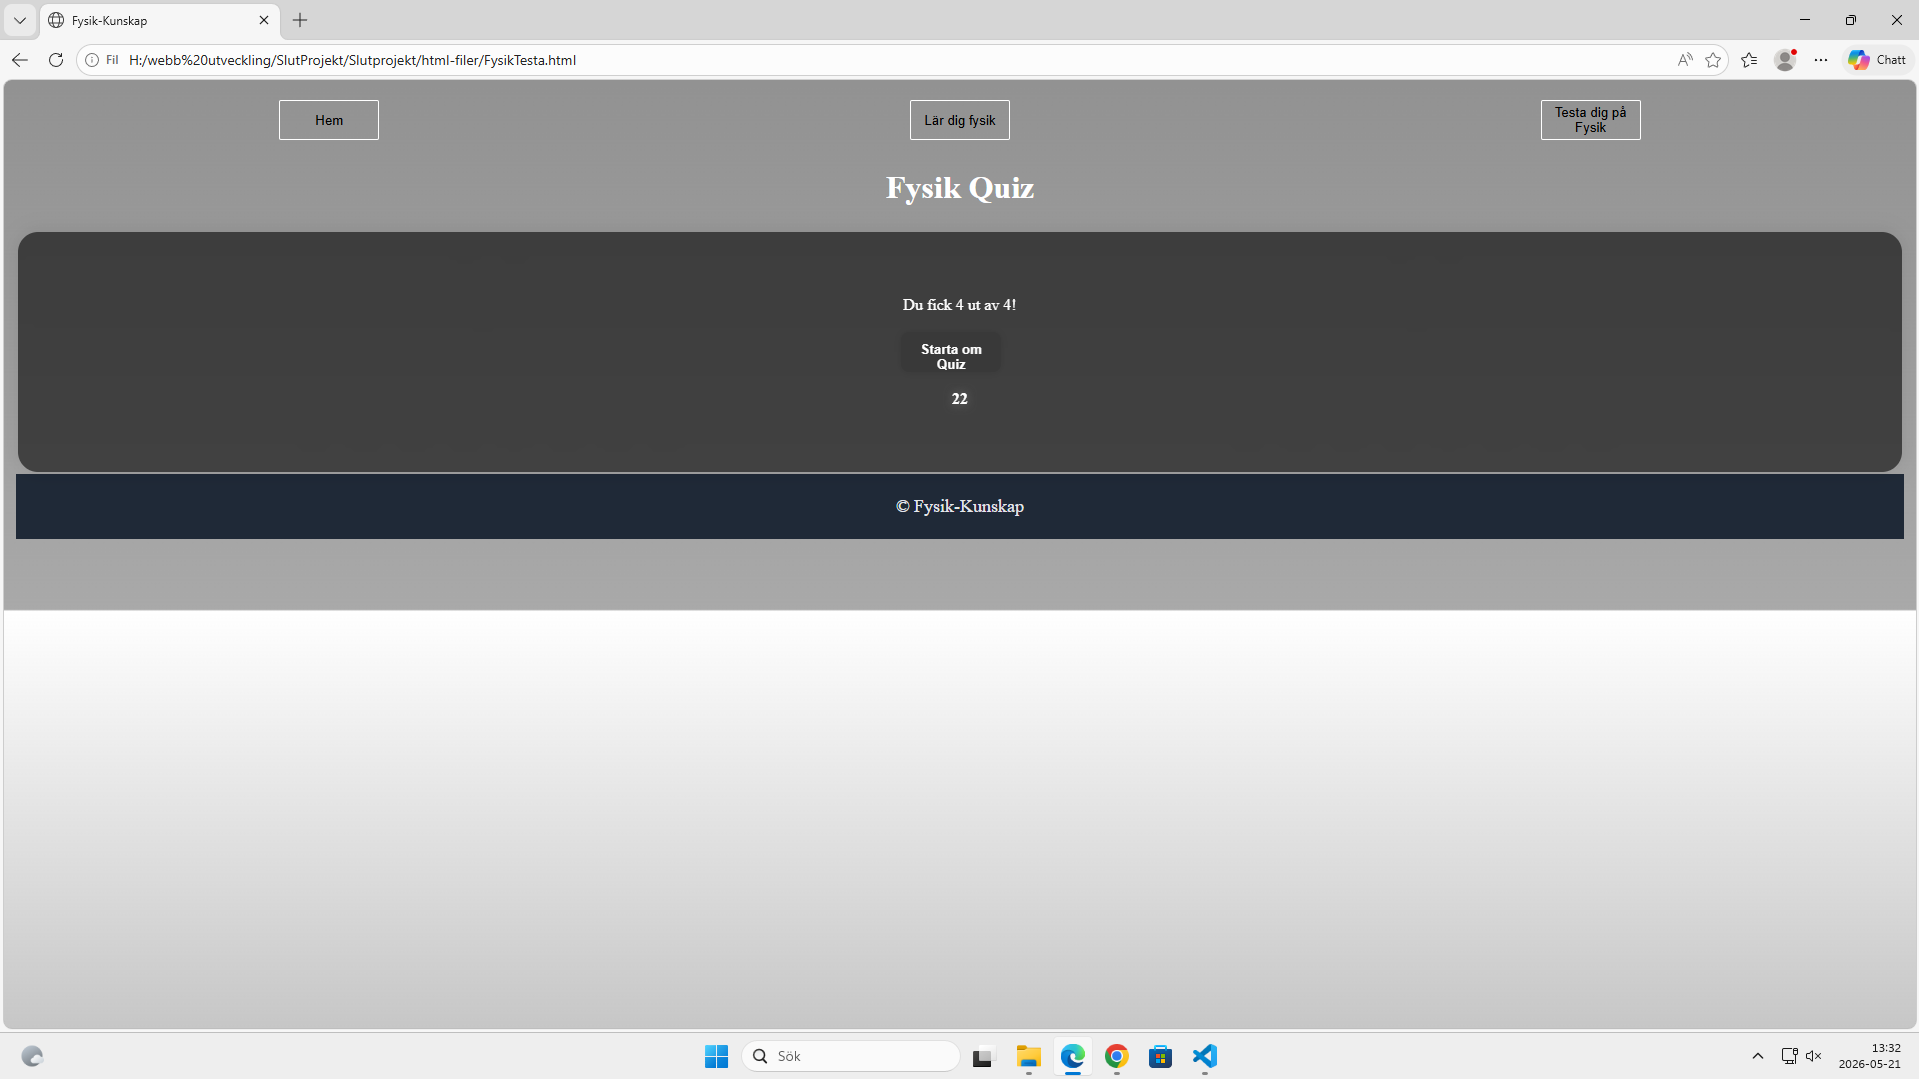
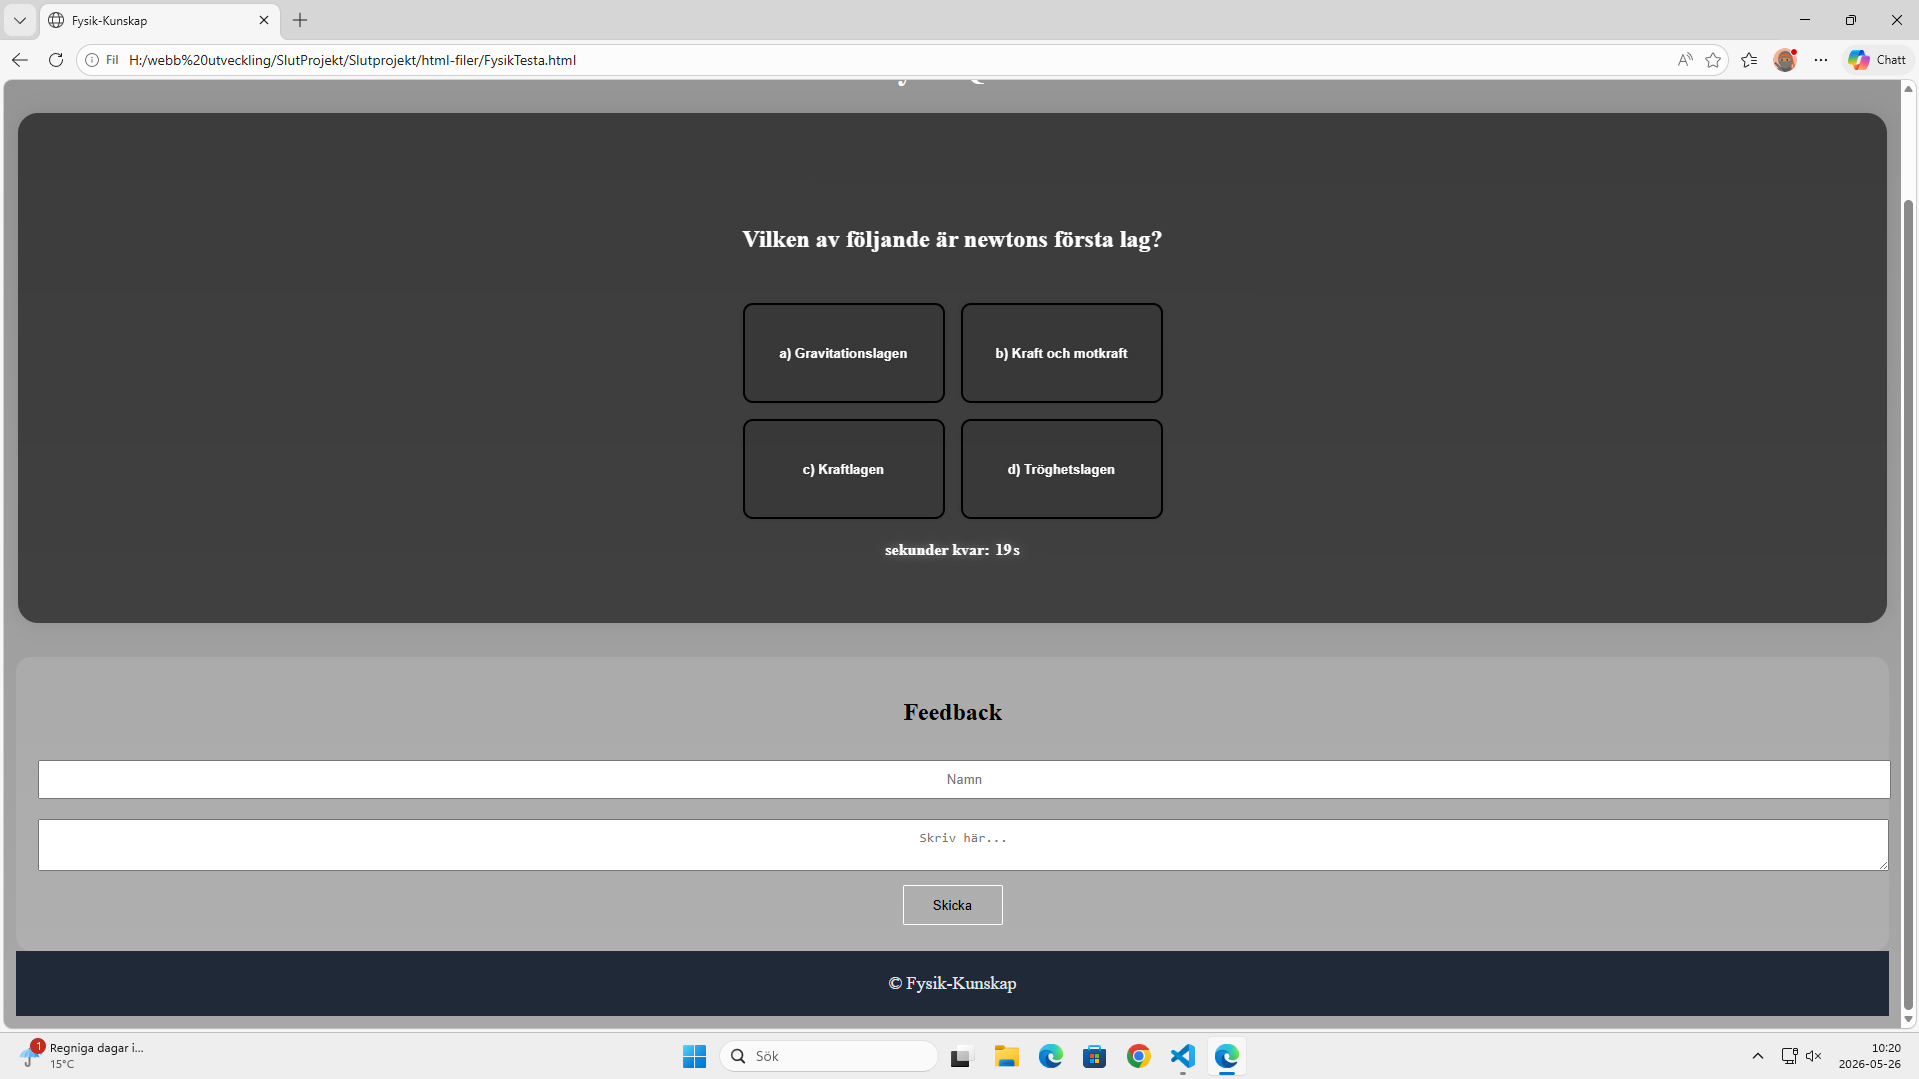
Readme

diff --git a/README.md b/README.md
@@ -22,17 +22,17 @@ Jag har testat i 4 olika typer av webbplatser. Chrome, Microsoft edge och Firefo
 
 ### Bilder för hur min slutprojekt ser ut
 
-![alt Bilder](Bilder/bildREADME.png)
-![alt Bilder](Bilder/Skärmbild%201.png)
-![alt Bilder](Bilder/Skärmbild%202.png)
-![alt Bilder](Bilder/Skärmbild3.png)
-![alt Bilder](Bilder/Skärmbild%204.png)
-![alt Bilder](Bilder/Skärmbild%205.png)
-![alt Bilder](Bilder/Skärmbild%206.png)
-![alt Bilder](Bilder/Skärmbild%207.png)
+![Inspo bilder](Bilder/bildREADME.png)
+![Index html](Bilder/Skärmbild%201.png)
+![Info html](Bilder/Skärmbild%202.png)
+![Info html](Bilder/Skärmbild3.png)
+![Info html](Bilder/Skärmbild%204.png)
+![Info html](Bilder/Skärmbild%205.png)
+![Quiz html](Bilder/Skärmbild%206.png)
+![Quiz html](Bilder/Skärmbild%207.png)
 
 ### Bilder för att visa att min webbsida går och öppna i minst 3 olika typer av webbplatser
 
-![alt Bilder](Bilder/skärtbild%20Microsoft%20edge.png)
-![alt Bilder](Bilder/Skärmbild%20chrome.png)
-![alt Bilder](Bilder/Skärmbild%20brave.png)
+![Edge webbplats](Bilder/skärtbild%20Microsoft%20edge.png)
+![Chrome webbplats](Bilder/Skärmbild%20chrome.png)
+![Brave webbplats](Bilder/Skärmbild%20brave.png)
